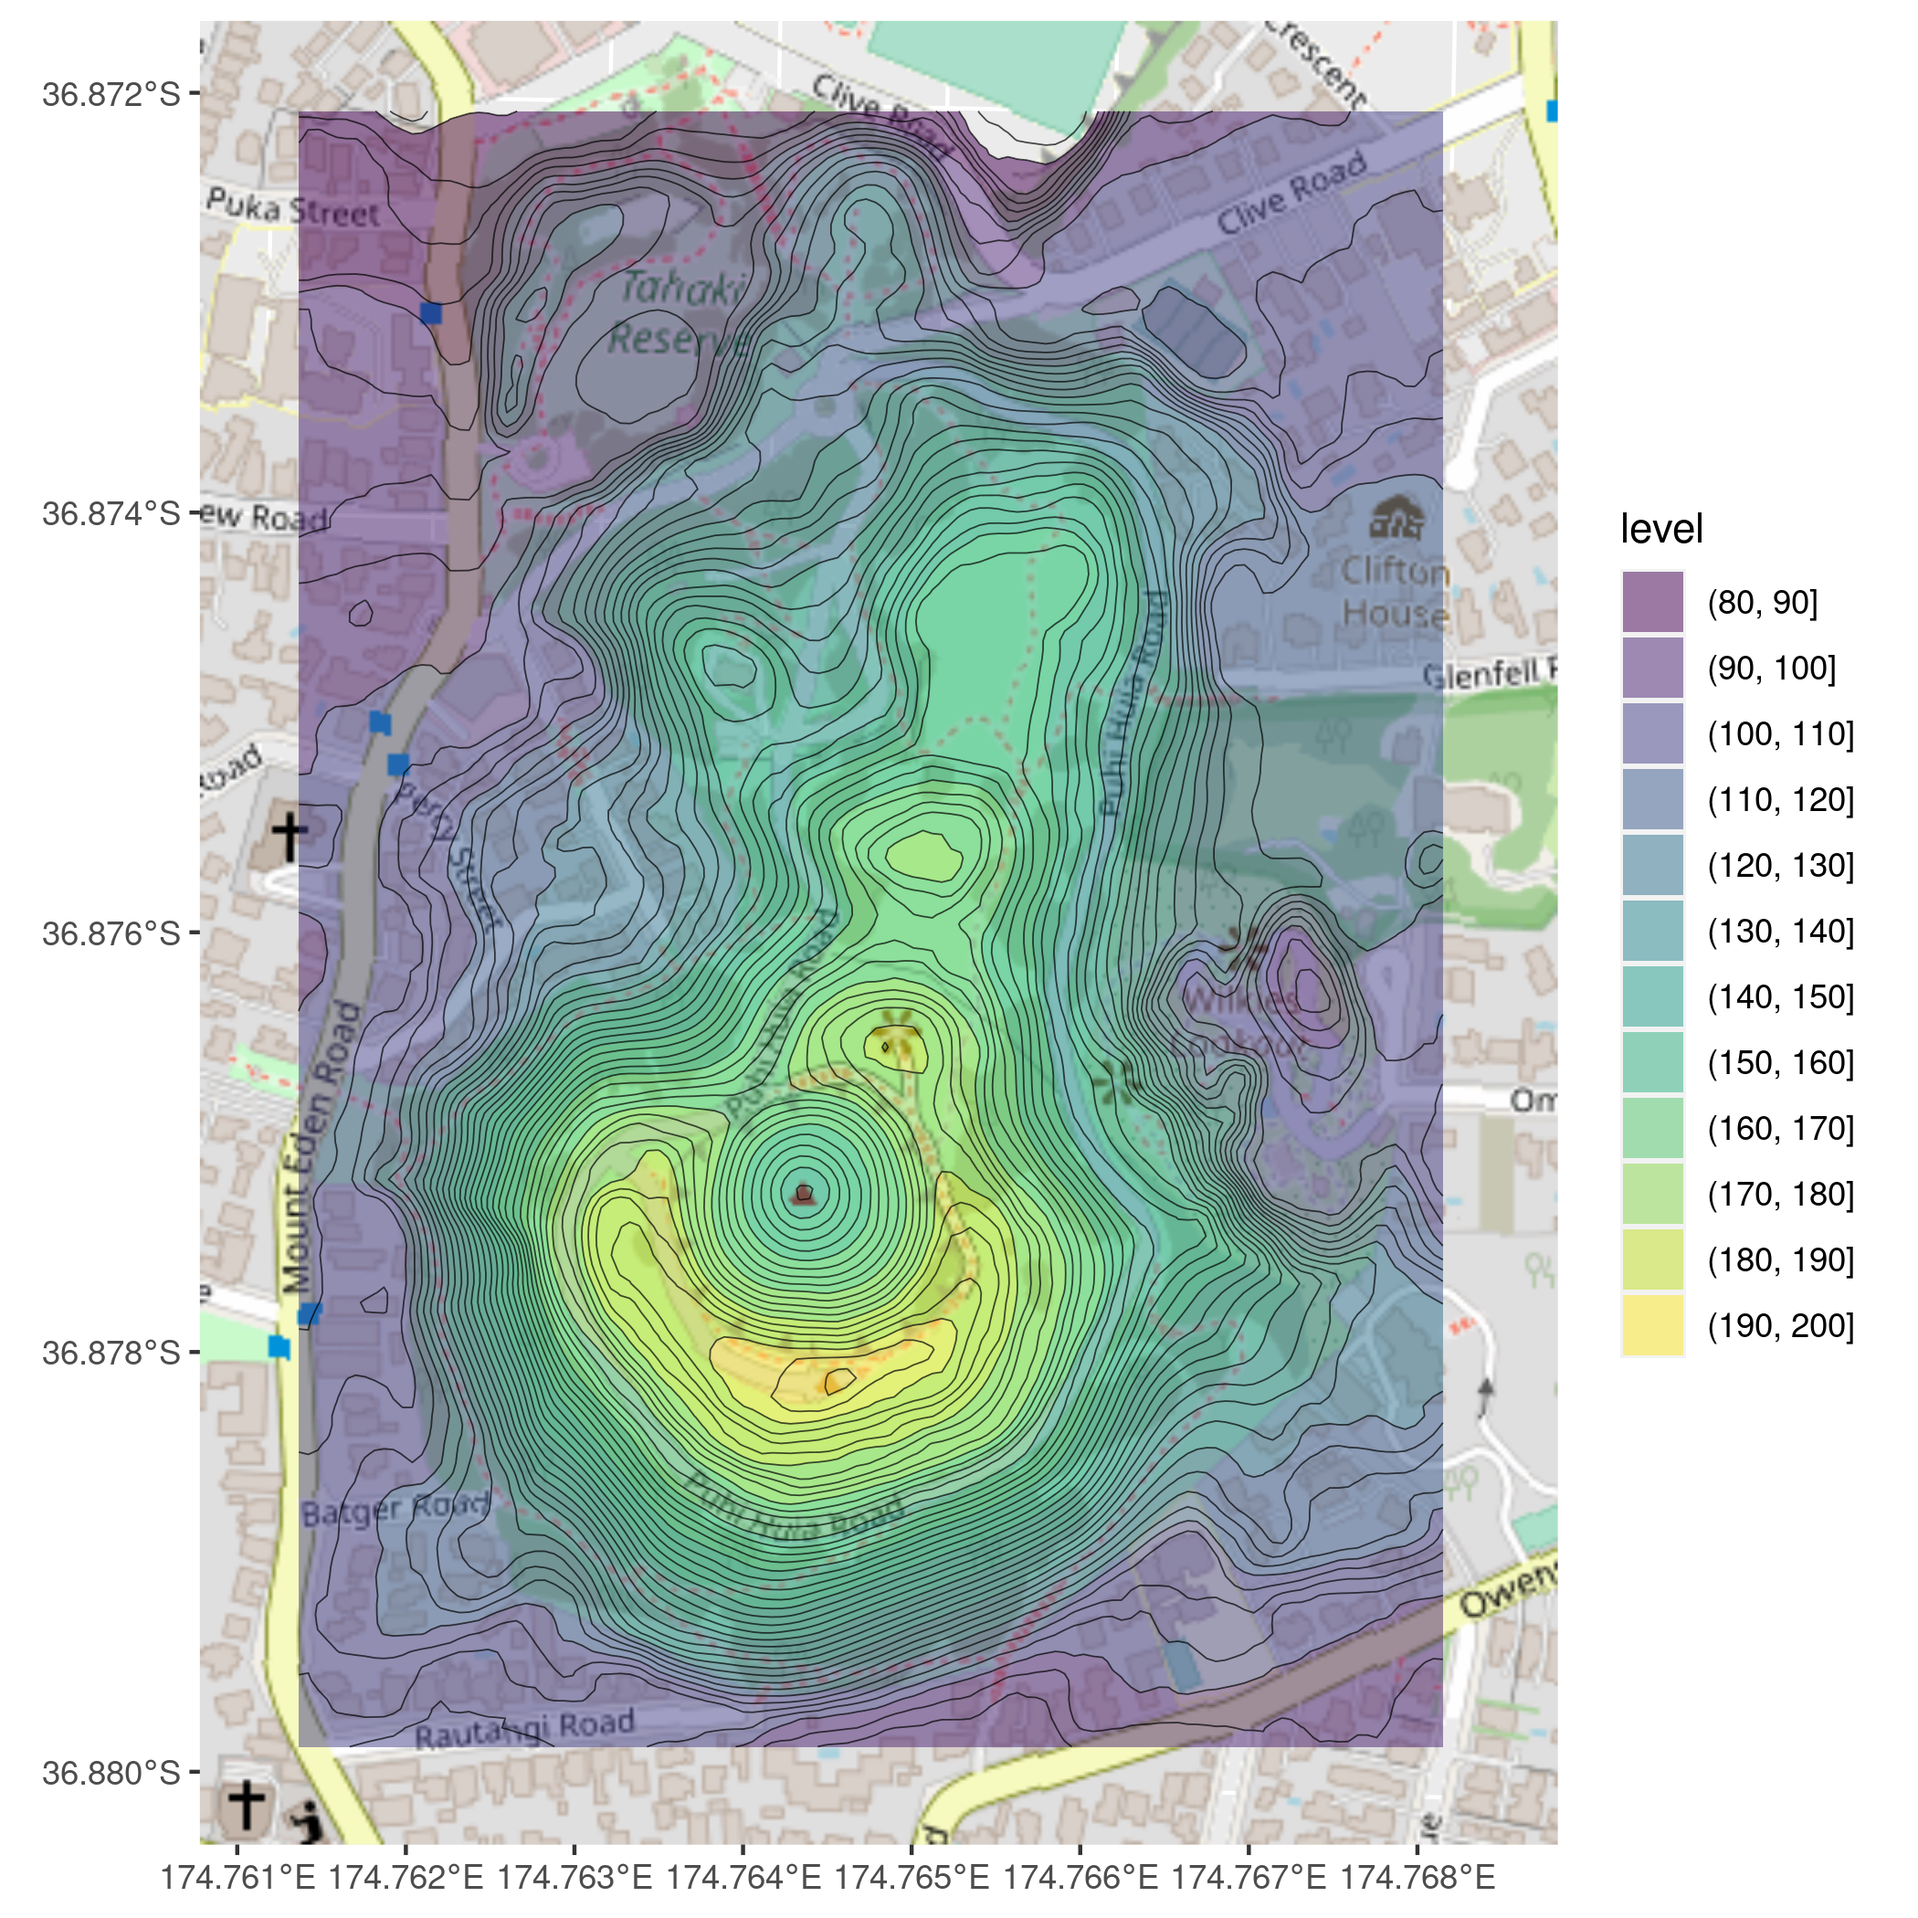
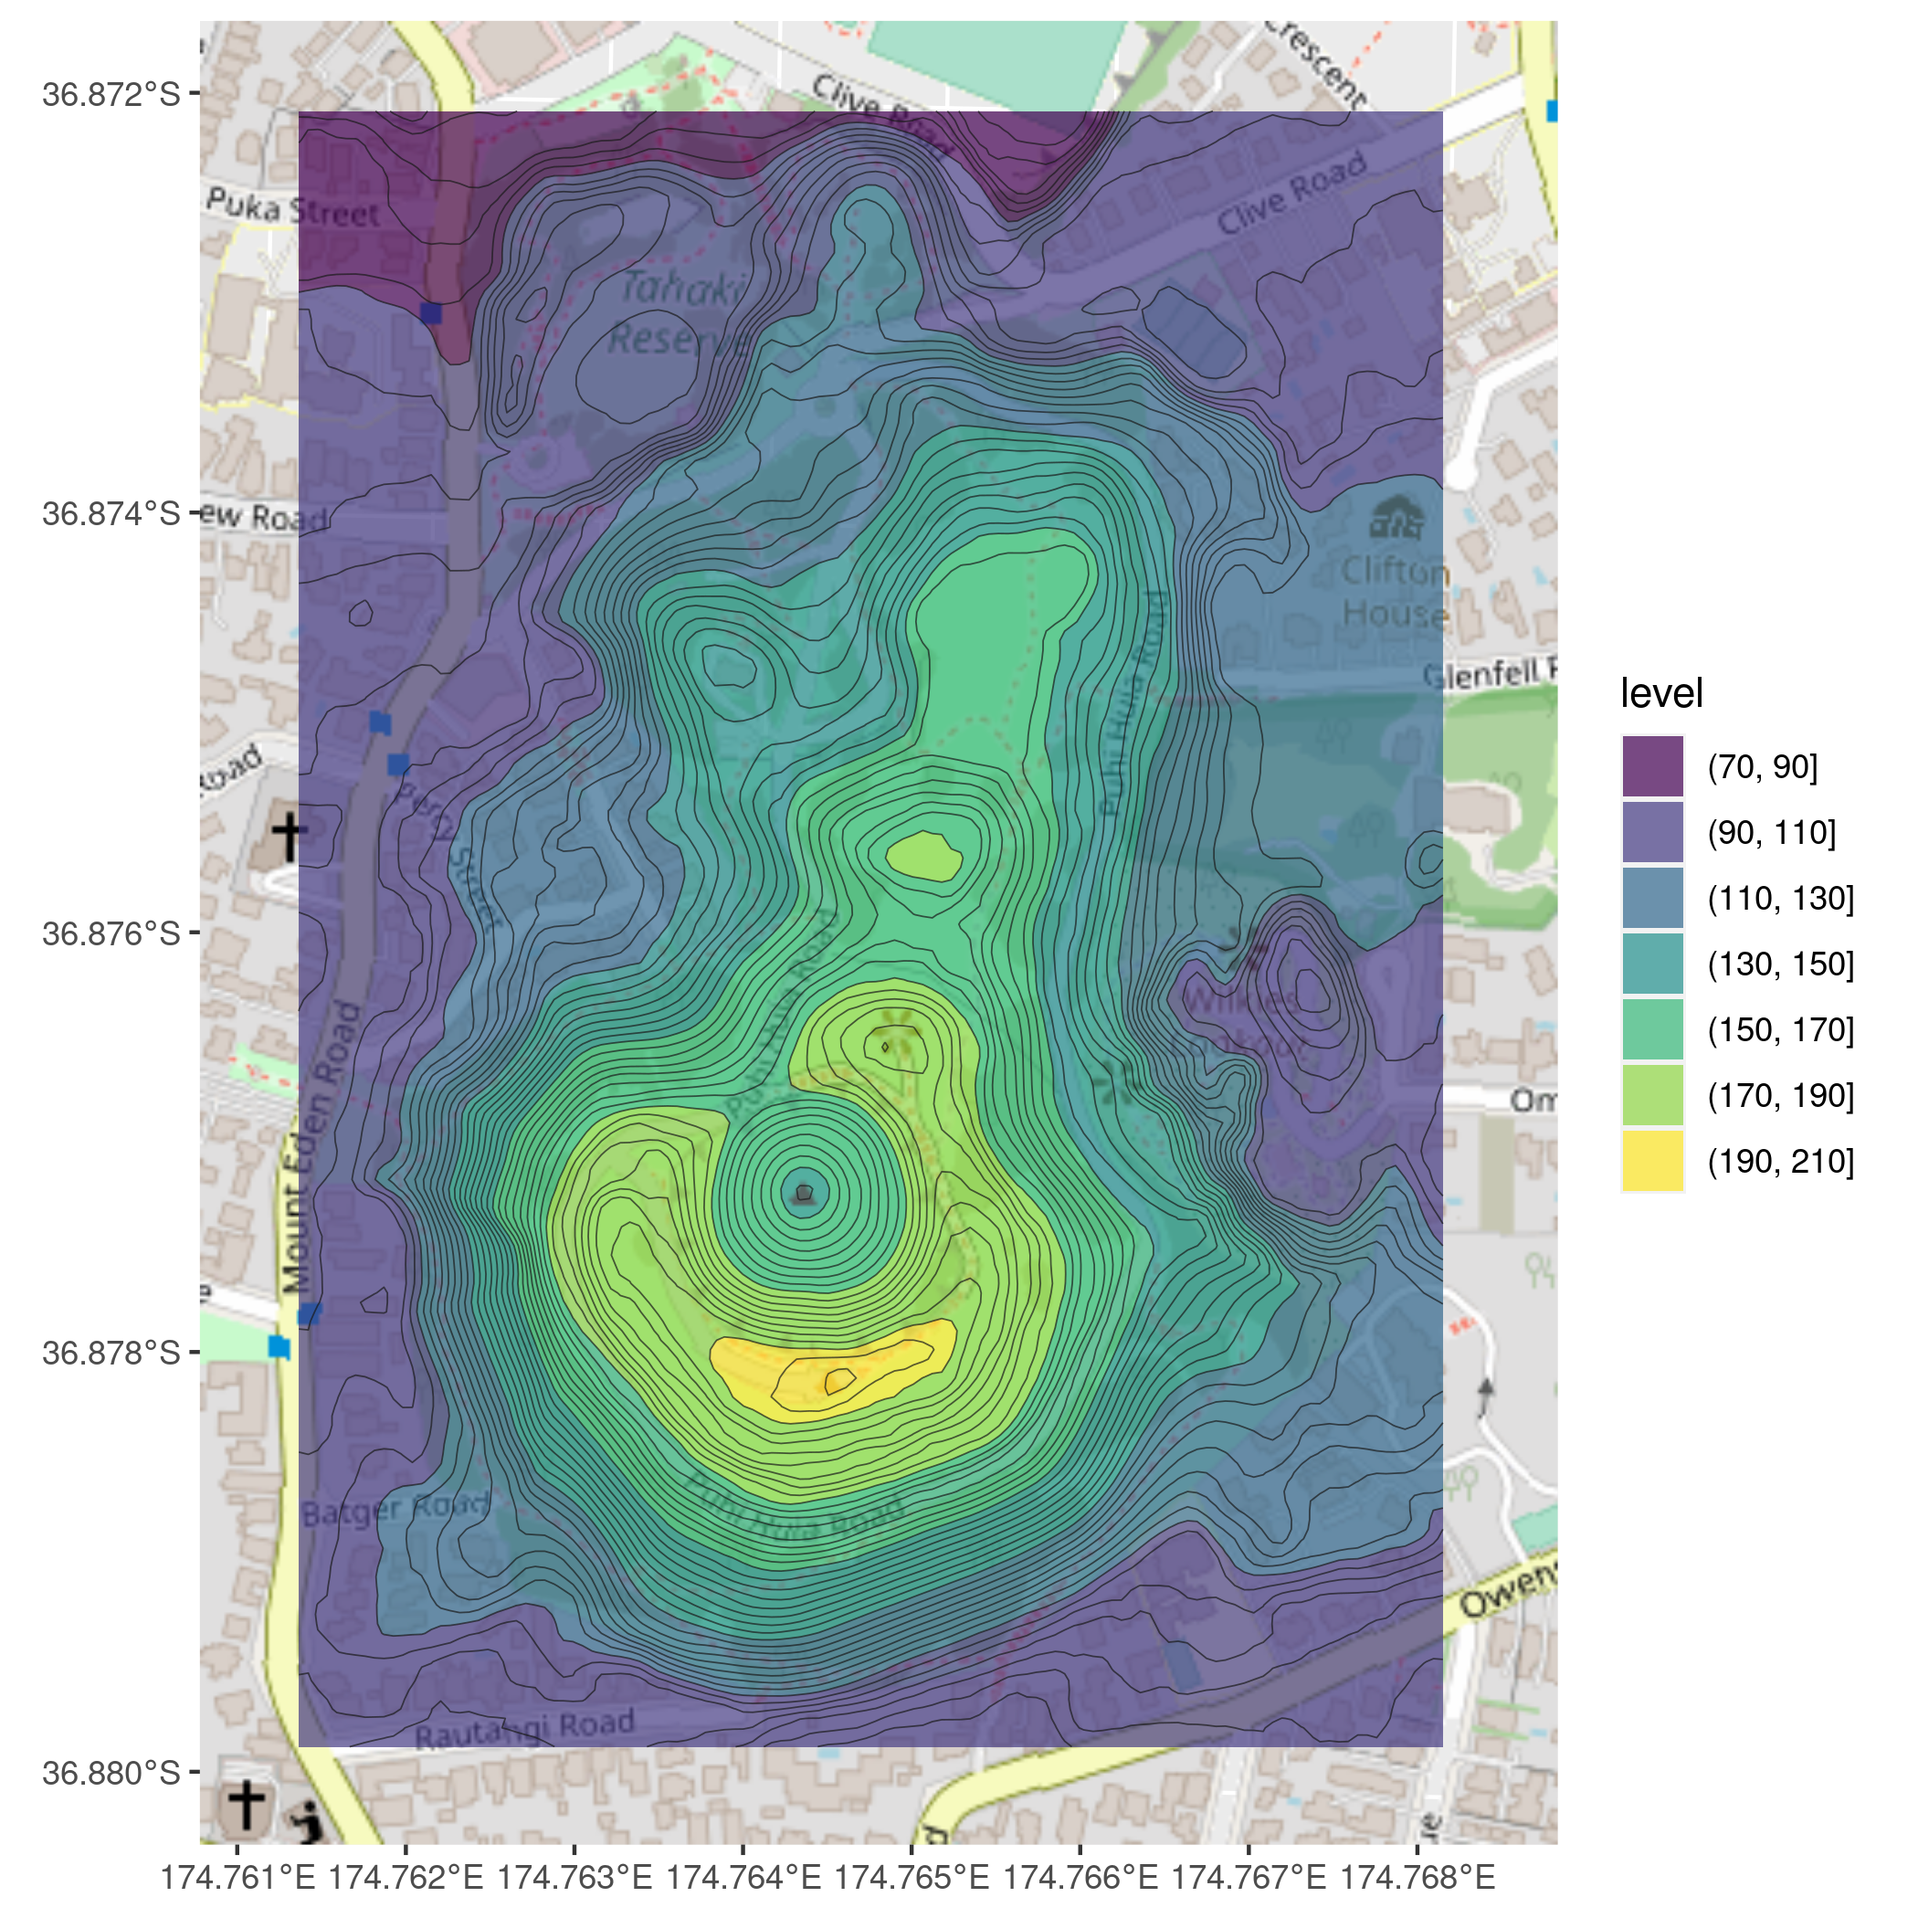
Adjust contour image

diff --git a/collections/_posts/2022-05-25-tidyterra.md b/collections/_posts/2022-05-25-tidyterra.md
@@ -220,8 +220,10 @@ ggtile +
 
 The `volcano` dataset may not be completely up to date. As a compliment,
 `tidyterra` includes a `.tif` file with the same dimensions that our `volcano2`
-raster, but with the topographic values extracted using `elevatr`. See here how
-to load it and check the plotting `tidyterra` possibilities:
+raster, but with the topographic values extracted from [Auckland LiDAR 1m DEM
+(2013)](https://data.linz.govt.nz/layer/53405-auckland-lidar-1m-dem-2013/) and
+resampled to a resolution of 5x5 meters, for package size optimization. See here
+how to load it and check the plotting `tidyterra` possibilities:
 
 
 ```r
@@ -283,12 +285,12 @@ ggtile +
 ggtile +
   geom_spatraster_contour_filled(
     data = volcano2_easter,
-    breaks = seq(80, 200, 10),
-    alpha = 0.5
+    breaks = seq(70, 210, 20),
+    alpha = 0.7
   ) +
   geom_spatraster_contour(
     data = volcano2_easter, binwidth = 2.5,
-    alpha = 0.7, size = .2, color = "black"
+    alpha = 0.7, size = .2, color = "grey10"
   ) +
   coord_sf(expand = FALSE)
 ```
